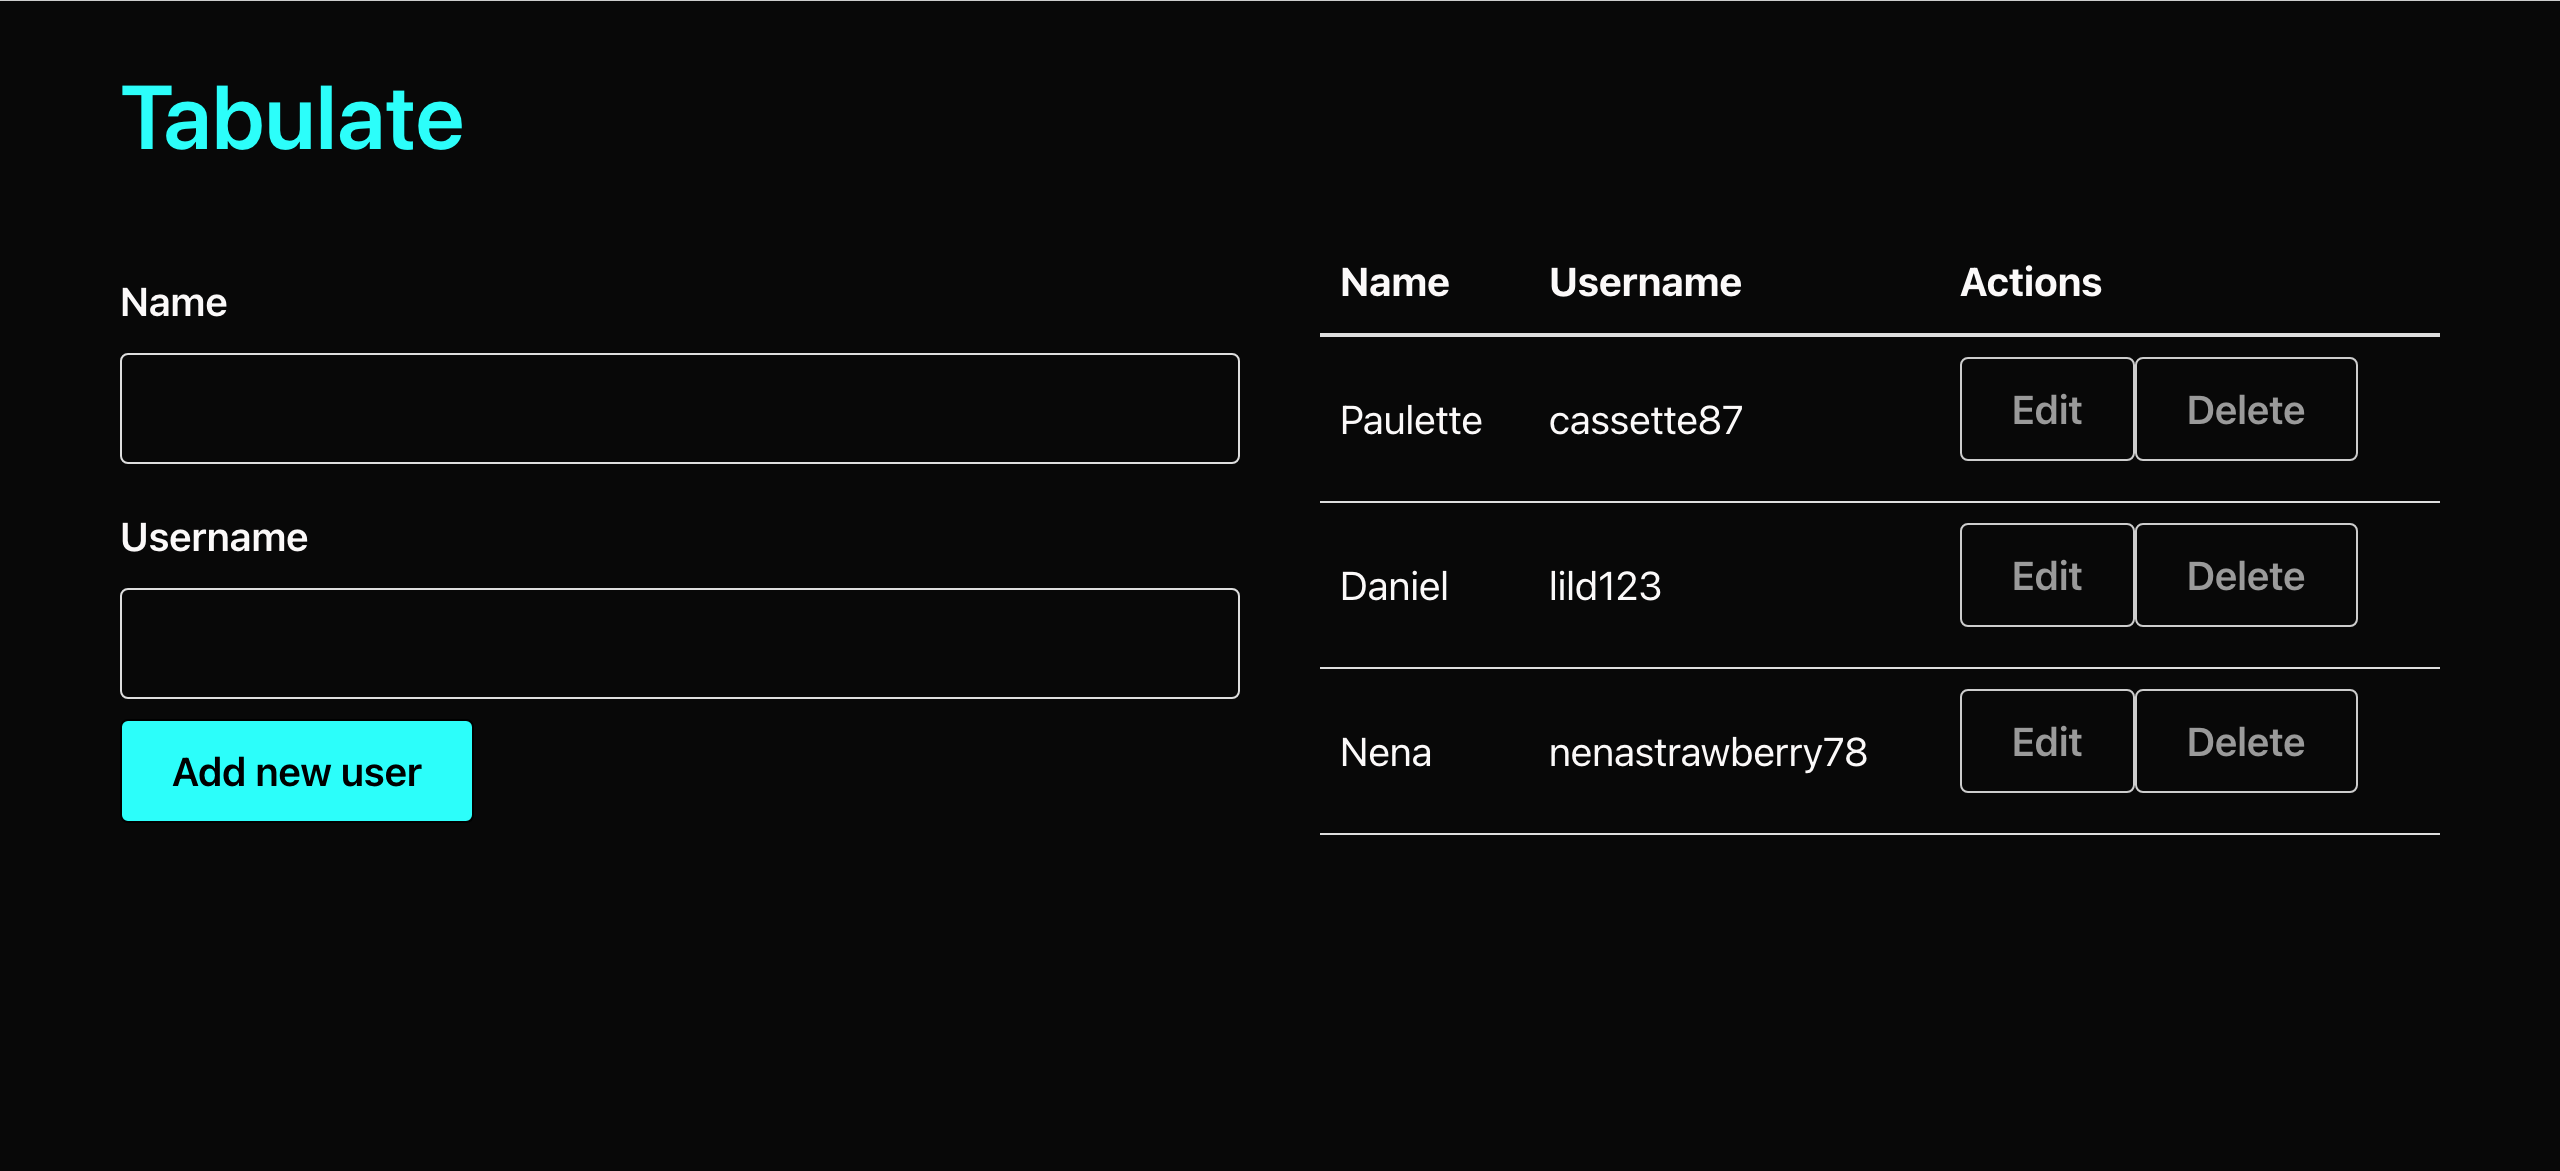
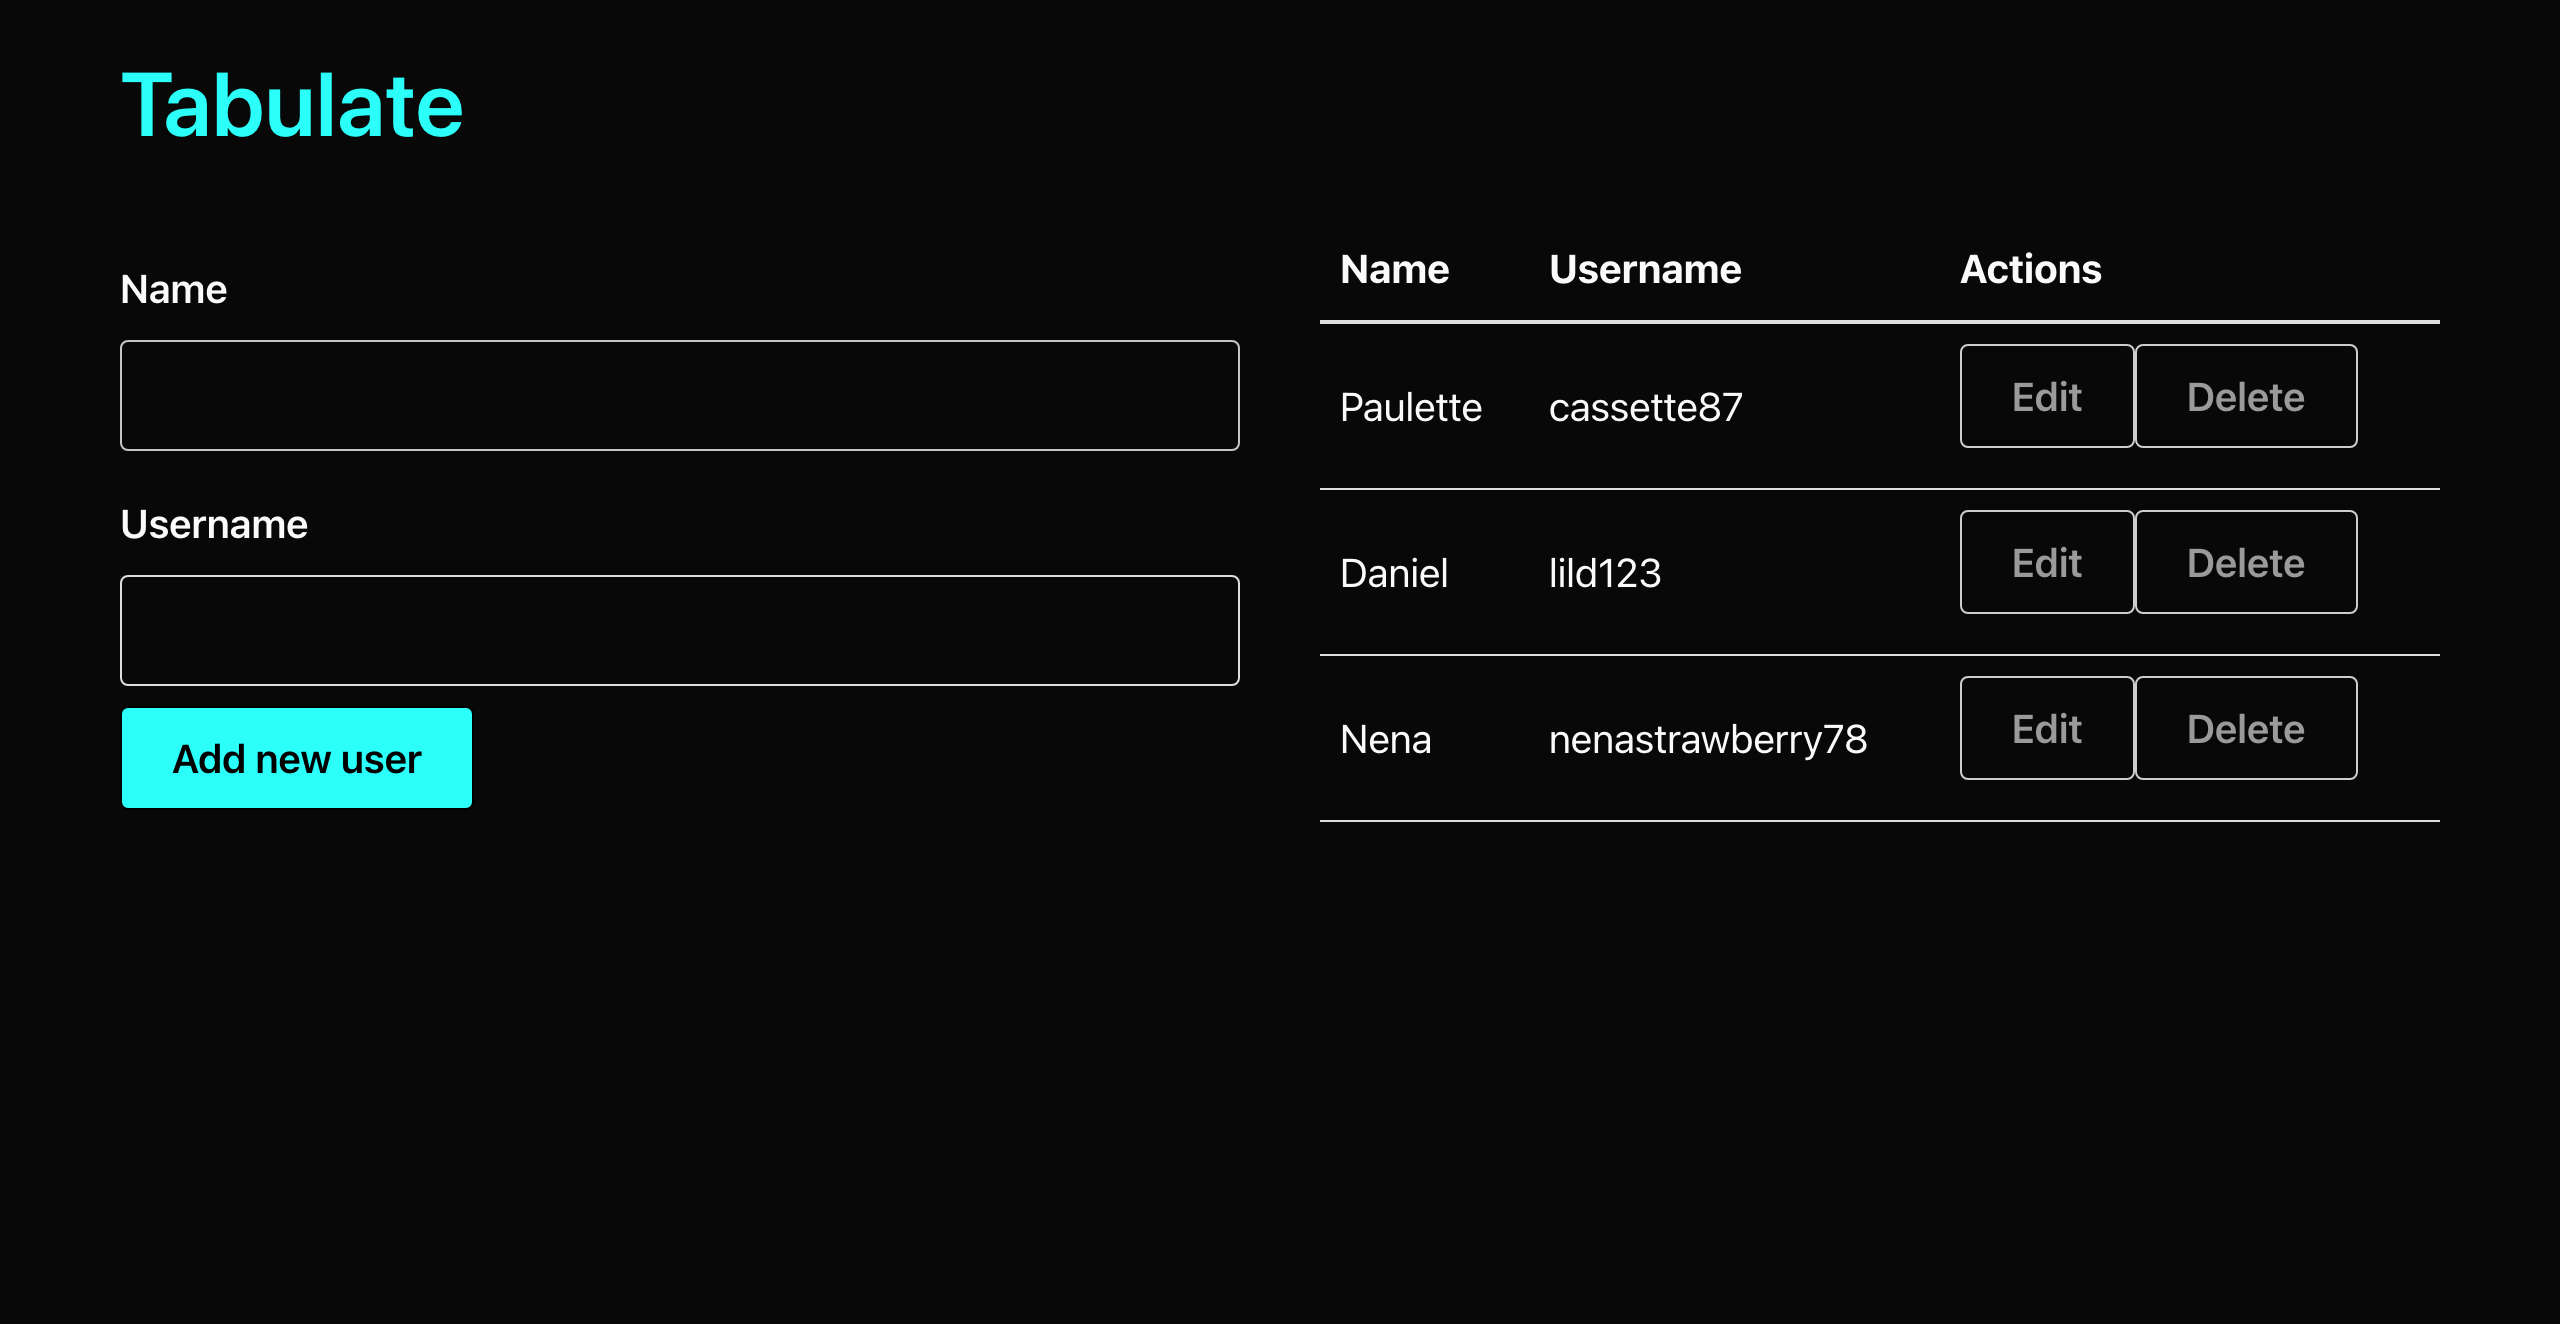
feature: add all project images

diff --git a/index.html b/index.html
@@ -97,7 +97,7 @@ my communication skills, organizational skills and problem-solving ability to he
   <div id="intro-contact">
     <h1 id = "about-me">- About Me -</h1>
     </div>
-    <img src="images/Paulette.png" alt = "Paulette" class="img-fluid d-sm-block" id = "paulette-image" />
+    <img src="images/paulette.png" alt = "Paulette" class="img-fluid d-sm-block" id = "paulette-image" />
     <div class="mt-3 d-sm-flex paragraph-style" >
       <p>
         Software engineer and senior educator with a keen interest in frontend development. As a results, driven, detail-oriented individual I apply
@@ -136,7 +136,7 @@ my communication skills, organizational skills and problem-solving ability to he
     >
       <div class="card d-flex position-relative flex-column">
         <div class="imgContainer">
-          <img src="card-img.jpg" />
+          <img src="images/promptory.png" />
         </div>
         <div class="content">
           <h2>Card One</h2>
@@ -150,7 +150,7 @@ my communication skills, organizational skills and problem-solving ability to he
       </div>
       <div class="card d-flex position-relative flex-column">
         <div class="imgContainer">
-          <img src="epoch.png" />
+          <img src="images/sailor.png" />
         </div>
         <div class="content">
           <h2>Card Two</h2>
@@ -164,35 +164,7 @@ my communication skills, organizational skills and problem-solving ability to he
       </div>
       <div class="card d-flex position-relative flex-column">
         <div class="imgContainer">
-          <img src="images/weather.png" />
-        </div>
-        <div class="content">
-          <h2>Card Two</h2>
-          <p>
-            Lorem ipsum dolor sit amet, consectetur adipiscing elit. Suspendisse
-            eget velit tristique, sollicitudin leo viverra, suscipit neque.
-            Aliquam ut facilisis urna, in pretium nibh. Morbi in leo in eros
-            commodo volutpat ac sed dolor.
-          </p>
-        </div>
-      </div>
-      <div class="card d-flex position-relative flex-column">
-        <div class="imgContainer">
-          <img src="images/guess.png" />
-        </div>
-        <div class="content">
-          <h2>Card Two</h2>
-          <p>
-            Lorem ipsum dolor sit amet, consectetur adipiscing elit. Suspendisse
-            eget velit tristique, sollicitudin leo viverra, suscipit neque.
-            Aliquam ut facilisis urna, in pretium nibh. Morbi in leo in eros
-            commodo volutpat ac sed dolor.
-          </p>
-        </div>
-      </div>
-      <div class="card d-flex position-relative flex-column">
-        <div class="imgContainer">
-          <img src="/images/epoch.png" />
+          <img src="images/epoch.png" />
         </div>
         <div class="content">
           <h2>Card Two</h2>
@@ -207,6 +179,34 @@ my communication skills, organizational skills and problem-solving ability to he
       <div class="card d-flex position-relative flex-column">
         <div class="imgContainer">
           <img src="images/tabulate.png" />
+        </div>
+        <div class="content">
+          <h2>Card Two</h2>
+          <p>
+            Lorem ipsum dolor sit amet, consectetur adipiscing elit. Suspendisse
+            eget velit tristique, sollicitudin leo viverra, suscipit neque.
+            Aliquam ut facilisis urna, in pretium nibh. Morbi in leo in eros
+            commodo volutpat ac sed dolor.
+          </p>
+        </div>
+      </div>
+      <div class="card d-flex position-relative flex-column">
+        <div class="imgContainer">
+          <img src="/images/elementz.png" />
+        </div>
+        <div class="content">
+          <h2>Card Two</h2>
+          <p>
+            Lorem ipsum dolor sit amet, consectetur adipiscing elit. Suspendisse
+            eget velit tristique, sollicitudin leo viverra, suscipit neque.
+            Aliquam ut facilisis urna, in pretium nibh. Morbi in leo in eros
+            commodo volutpat ac sed dolor.
+          </p>
+        </div>
+      </div>
+      <div class="card d-flex position-relative flex-column">
+        <div class="imgContainer">
+          <img src="images/guess.png" />
         </div>
         <div class="content">
           <h2>Guess My Number</h2>

diff --git a/src/styles.css b/src/styles.css
@@ -155,6 +155,7 @@ a.nav-link:before {
   display: flex;
   justify-content: center;
   align-items: center;
+  margin-top: 0px;
 }
 
 .container .card {
@@ -180,7 +181,6 @@ a.nav-link:before {
 }
 .container .card .imgContainer img {
   max-width: 100%;
-
   border-radius: 4px;
 }
 .container .card .content {
